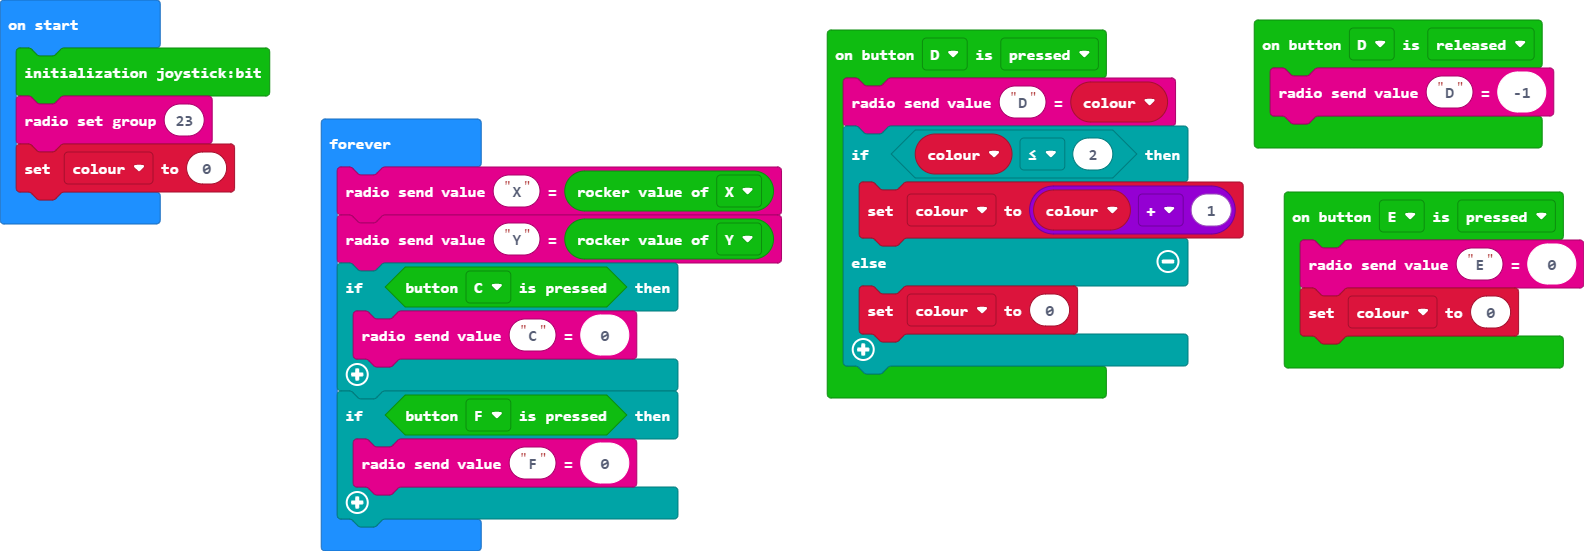
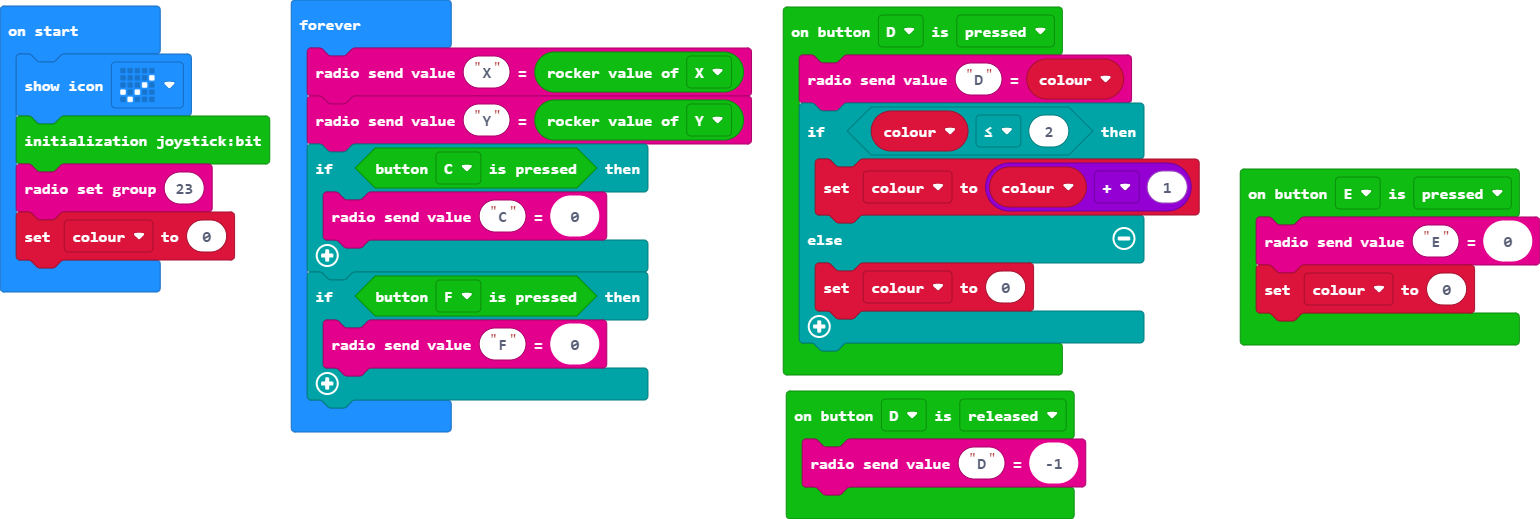
Update main.blocks, main.ts

diff --git a/main.ts b/main.ts
@@ -14,6 +14,7 @@ joystickbit.onButtonEvent(joystickbit.JoystickBitPin.P13, joystickbit.ButtonType
     }
 })
 let colour = 0
+basic.showIcon(IconNames.Yes)
 joystickbit.initJoystickBit()
 radio.setGroup(23)
 colour = 0
